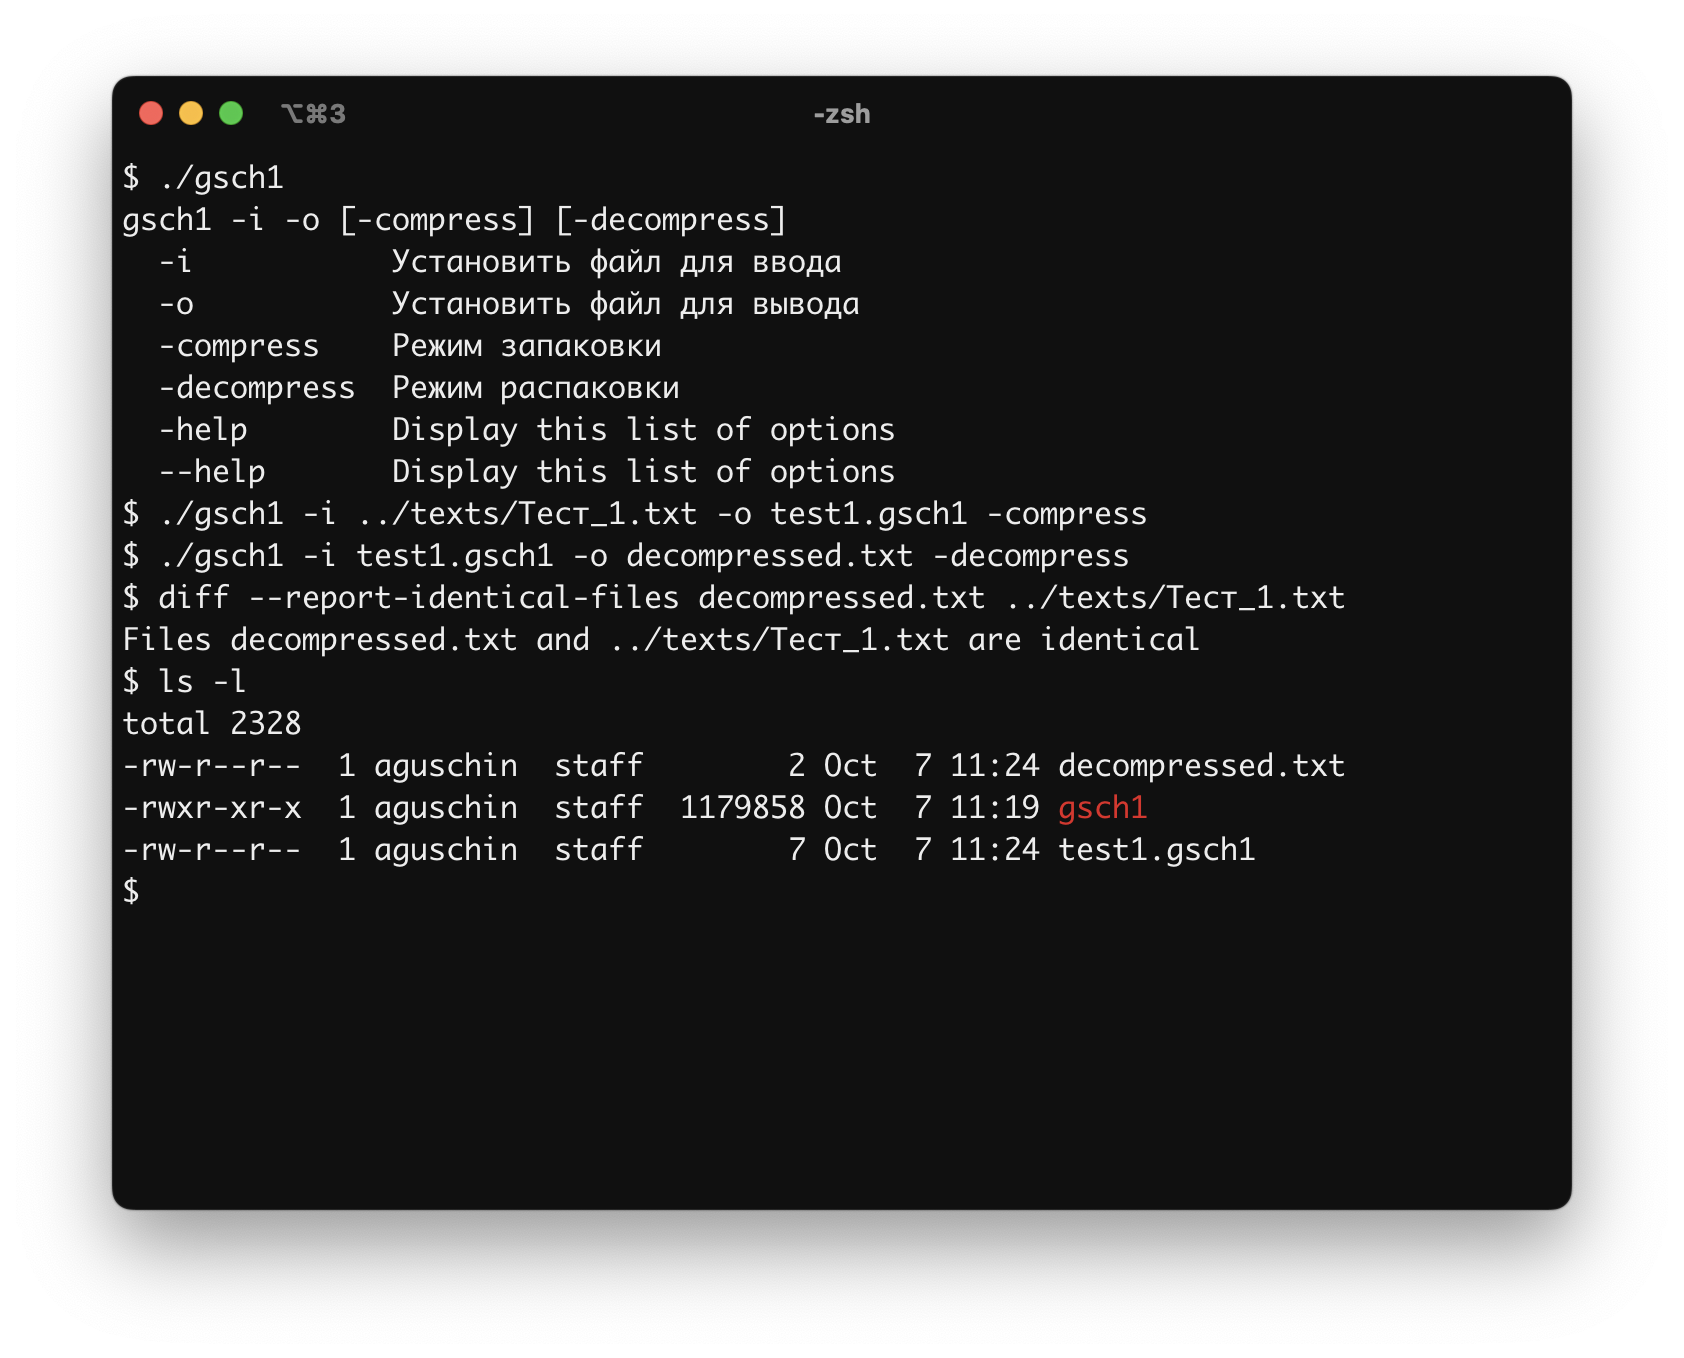
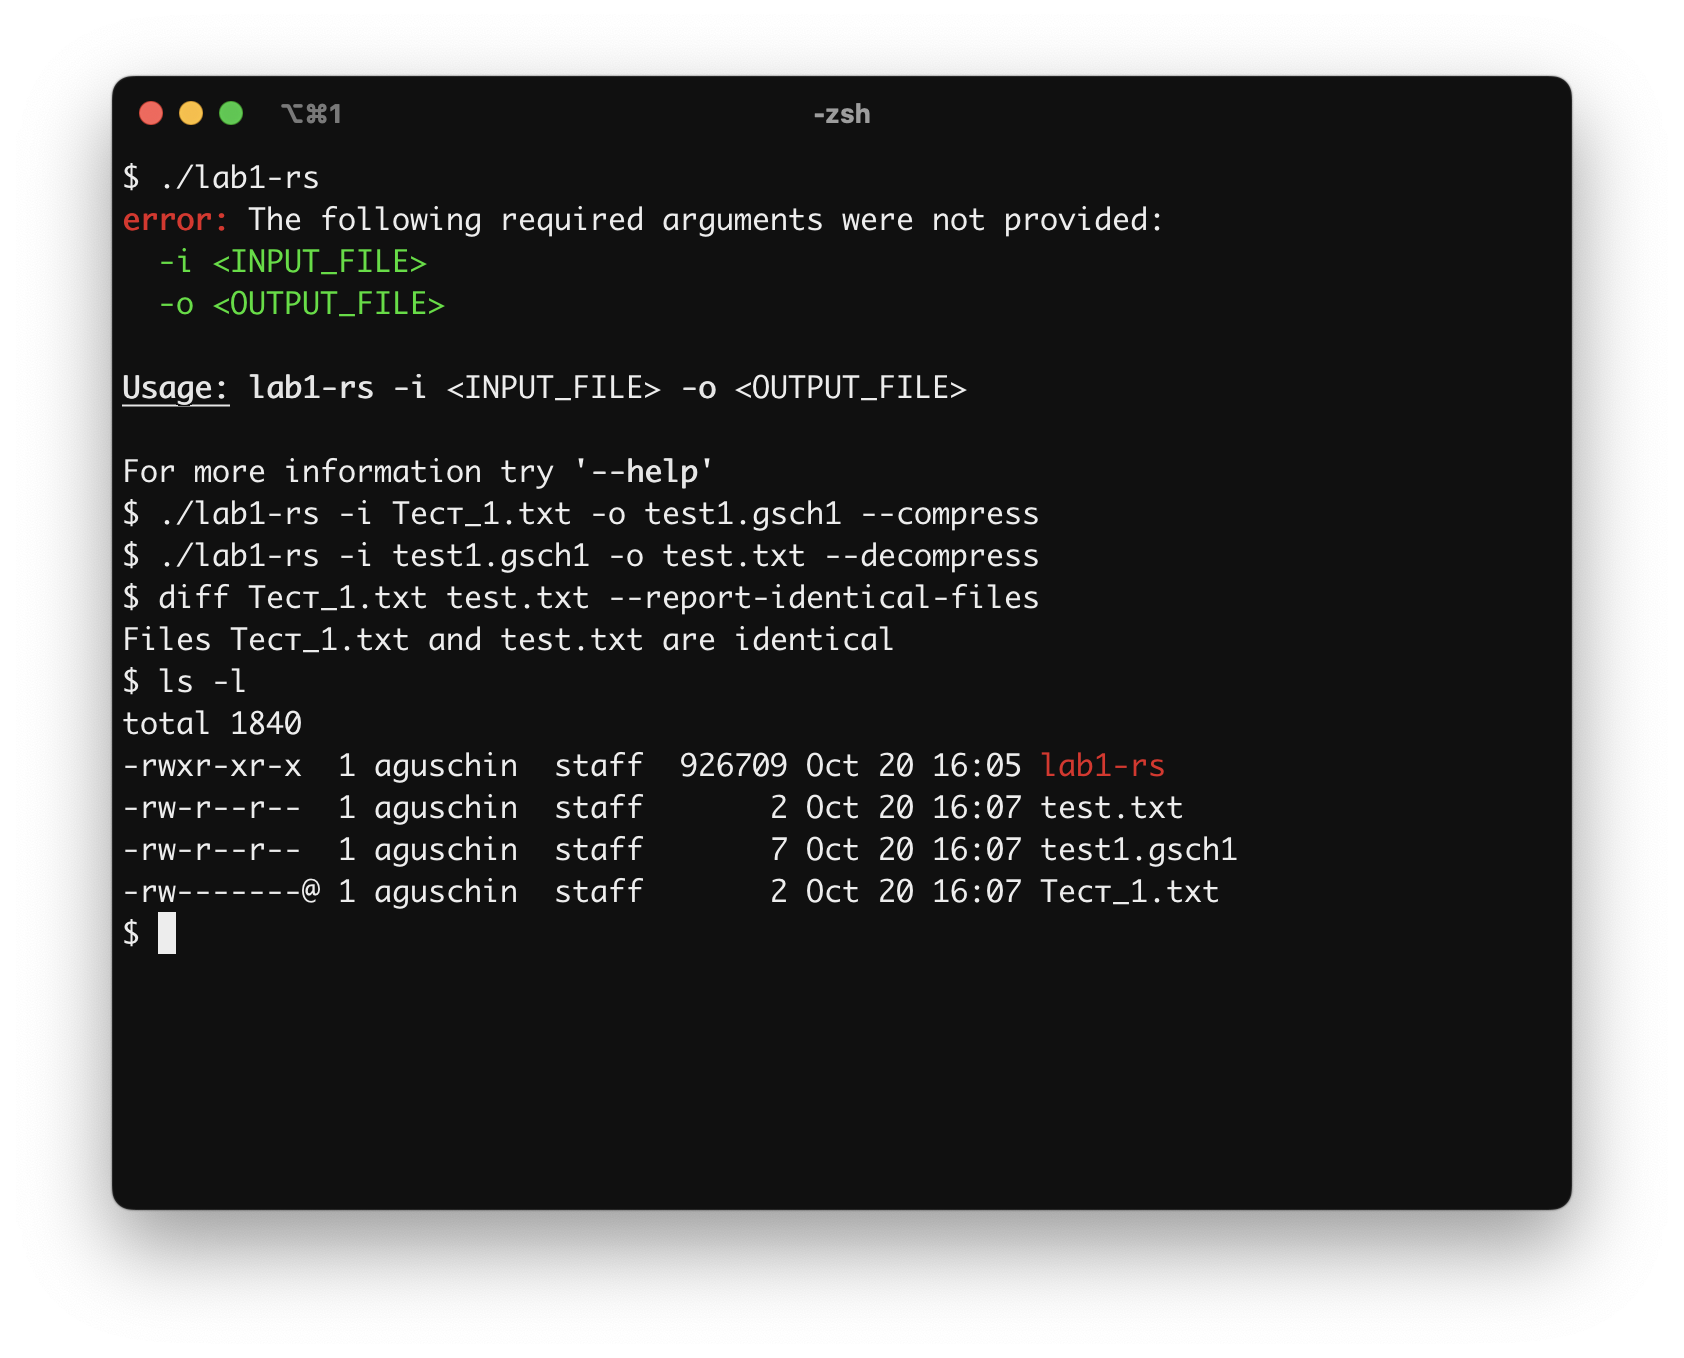
RustFmt в первой лабе и изменены данные в отчёте

diff --git a/reports/lab1/lab1.tex b/reports/lab1/lab1.tex
@@ -48,10 +48,10 @@
 
 Алгоритм состоит из следующих шагов:
 \begin{enumerate}
-    \item Вычислить частоты всех встретившихся символов;
-    \item Построить очередь с приоритетом на основе полученных частот;
-    \item Построить дерево с помощью очереди с приоритетом;
-    \item На основе дерева вычислить код для каждого символа.
+  \item Вычислить частоты всех встретившихся символов;
+  \item Построить очередь с приоритетом на основе полученных частот;
+  \item Построить дерево с помощью очереди с приоритетом;
+  \item На основе дерева вычислить код для каждого символа.
 \end{enumerate}
 
 
@@ -64,17 +64,17 @@
 архив увеличивает их размер за счёт метаданных.
 
 \begin{figure}[H]
-    \centering
-    \includegraphics[width=0.9\textwidth]{test1.png}
-    \caption{Сжатие текста Тест\_1.txt}
-    \label{fig:test_1}
+  \centering
+  \includegraphics[width=0.9\textwidth]{test1.png}
+  \caption{Сжатие текста Тест\_1.txt}
+  \label{fig:test_1}
 \end{figure}
 
 \begin{figure}[H]
-    \centering
-    \includegraphics[width=0.9\textwidth]{test6.png}
-    \caption{Сжатие текста Тест\_6.txt}
-    \label{fig:test_6}
+  \centering
+  \includegraphics[width=0.9\textwidth]{test6.png}
+  \caption{Сжатие текста Тест\_6.txt}
+  \label{fig:test_6}
 \end{figure}
 
 
@@ -87,58 +87,53 @@
 помощью алгоритма Хаффмана является неэффективной.
 
 \begin{table}[H]
-    \small
-    \centering
-    \begin{tabular}{|c|c|c|c|}
-        \hline
-        Название     & Исходный размер, байт & Сжатый размер, байт & Коэффициент \\ \hline \hline
-        Тест\_1.txt  & 2                     & 7                   & 0.28571     \\ \hline
-        Тест\_2.txt  & 33                    & 92                  & 0.3587      \\ \hline
-        Тест\_3.txt  & 2739                  & 1998                & 1.37087     \\ \hline
-        Тест\_4.txt  & 330                   & 48                  & 6.875       \\ \hline
-        Тест\_5.txt  & 59                    & 168                 & 0.35119     \\ \hline
-        Тест\_6.txt  & 7958                  & 7577                & 1.05028     \\ \hline
-        Тест\_7.txt  & 138245                & 134049              & 1.0313      \\ \hline
-        Тест\_8.txt  & 574426                & 482613              & 1.19024     \\ \hline
-        Тест\_9.txt  & 2752                  & 348                 & 7.90805     \\ \hline
-        Тест\_10.txt & 2814                  & 708                 & 3.97458     \\ \hline
-    \end{tabular}
-    \caption{результаты тестирования}
-    \label{tbl:results}
+  \small
+  \centering
+  \begin{tabular}{|c|c|c|c|}
+    \hline
+    Название   & Исходный размер, байт & Сжатый размер, байт & Коэффициент \\ \hline \hline
+    Тест\_1.txt  & 2           & 7           & 0.28571   \\ \hline
+    Тест\_2.txt  & 33          & 92          & 0.3587    \\ \hline
+    Тест\_3.txt  & 2739        & 1998        & 1.37087   \\ \hline
+    Тест\_4.txt  & 330         & 48          & 6.875     \\ \hline
+    Тест\_5.txt  & 59          & 168         & 0.35119   \\ \hline
+    Тест\_6.txt  & 7958        & 7843        & 1.01466   \\ \hline
+    Тест\_7.txt  & 138245      & 120488      & 1.14738   \\ \hline
+    Тест\_8.txt  & 574426      & 516945      & 1.11119   \\ \hline
+    Тест\_9.txt  & 2752        & 349         & 7.88539   \\ \hline
+    Тест\_10.txt & 2814        & 368         & 7.64674   \\ \hline
+  \end{tabular}
+  \caption{результаты тестирования}
+  \label{tbl:results}
 \end{table}
 
 \subsection{Характеристика 2 (Скорость сжатия)}
 
-Для тестирования скорости сжатия использовался произвольный двоичный файл
-размера 76450438 байт ($\approx$73 мегабайта). В результате пяти последовательных
-запусков, среднее время запаковки файла составило 44.08 секунды, среднее
-время распаковки составило 33.42 секунды.
+Для тестирования скорости сжатия использовался произвольный двоичный
+файл размера 76450438 байт ($\approx$73 мегабайта). В результате пяти
+последовательных запусков, среднее время запаковки файла составило 4.2
+секунды, среднее время распаковки составило 4.7 секунды.
 
-Таким образом, средняя скорость сжатия составила 1.65401 Мбайт в секунду, а
-средняя скорость разжатия составила 2.18159 Мбайт в секунду.
+Таким образом, средняя скорость сжатия составила 17.35924 Мбайт в секунду, а
+средняя скорость разжатия составила 15.51251 Мбайт в секунду.
 
 
 \section{Реализация}
 
-Программа реализована на языке программирования OCaml с использованием
-исключительно стандартной библиотеки языка. Сборка производится с помощью
-программы GNU Make и компиляторов ocamlc и ocamlopt, поставляющихся вместе с
-языком.
+Программа реализована на языке программирования Rust с использованием библиотеки
+clap для чтения параметров командной строки. Сборка производится с помощью
+программы cargo, поставляющейся вместе с языком.
 
-\subsection{Содержимое файла priority\_queue.ml}
-\inputminted{ocaml}{../../lab1/priority_queue.ml}
+\subsection{Содержимое файла priority\_queue.rs}
+\inputminted{rust}{../../lab1-rs/src/priority_queue.rs}
 
-\subsection{Содержимое файла huffman.mli}
-\inputminted{ocaml}{../../lab1/huffman.mli}
+\subsection{Содержимое файла huffman.rs}
+\inputminted{rust}{../../lab1-rs/src/huffman.rs}
 
-\subsection{Содержимое файла huffman.ml}
-\inputminted{ocaml}{../../lab1/huffman.ml}
+\subsection{Содержимое файла main.rs}
+\inputminted{rust}{../../lab1-rs/src/main.rs}
 
-\subsection{Содержимое файла compress.ml}
-\inputminted{ocaml}{../../lab1/compress.ml}
-
-\subsection{Содержимое файла Makefile}
-\inputminted{ocaml}{../../lab1/Makefile}
-
+\subsection{Содержимое файла Cargo.toml}
+\inputminted{toml}{../../lab1-rs/Cargo.toml}
 
 \end{document}

diff --git a/lab1-rs/src/huffman.rs b/lab1-rs/src/huffman.rs
@@ -1,12 +1,18 @@
-use std::collections::HashMap;
 use crate::priority_queue::PriorityQueue;
+use std::collections::HashMap;
 
 #[derive(Clone, Copy, Debug)]
-enum Bit { Zero, One, }
+enum Bit {
+    Zero,
+    One,
+}
 impl Bit {
     fn from_u8(x: u8) -> Bit {
-        if x == 0 { Bit::Zero }
-        else { Bit::One }
+        if x == 0 {
+            Bit::Zero
+        } else {
+            Bit::One
+        }
     }
 
     fn to_u8(x: &Bit) -> u8 {
@@ -18,7 +24,10 @@ impl Bit {
 }
 
 #[derive(Debug)]
-enum HuffmanTree<T> where T: std::cmp::Eq + std::hash::Hash + Copy {
+enum HuffmanTree<T>
+where
+    T: std::cmp::Eq + std::hash::Hash + Copy,
+{
     Leaf(T),
     Node(Box<HuffmanTree<T>>, Box<HuffmanTree<T>>),
 }
@@ -35,7 +44,8 @@ impl<T: std::cmp::Eq + std::hash::Hash + Copy> HuffmanTree<T> {
             let v2 = huf_queue.pop().unwrap();
             huf_queue.insert(
                 v1.weight + v2.weight,
-                Box::new(HuffmanTree::Node(v1.value, v2.value)));
+                Box::new(HuffmanTree::Node(v1.value, v2.value)),
+            );
         }
         return *huf_queue.pop().unwrap().value;
     }
@@ -44,7 +54,7 @@ impl<T: std::cmp::Eq + std::hash::Hash + Copy> HuffmanTree<T> {
         match tree {
             HuffmanTree::Leaf(val) => {
                 code.insert(*val, acc.clone());
-            },
+            }
             HuffmanTree::Node(left, right) => {
                 acc.push(Bit::Zero);
                 acc = HuffmanTree::dfs(left, acc, code);
@@ -52,7 +62,7 @@ impl<T: std::cmp::Eq + std::hash::Hash + Copy> HuffmanTree<T> {
                 acc.push(Bit::One);
                 acc = HuffmanTree::dfs(right, acc, code);
                 acc.pop();
-            },
+            }
         };
         return acc;
     }
@@ -162,10 +172,11 @@ impl BitWriter {
 
     fn dump_byte(&mut self) {
         let mut byte = 0_u8;
-        self.buffer.iter()
-                   .map(Bit::to_u8)
-                   .enumerate()
-                   .for_each(|(i, bit)| byte |= bit << i);
+        self.buffer
+            .iter()
+            .map(Bit::to_u8)
+            .enumerate()
+            .for_each(|(i, bit)| byte |= bit << i);
         self.result.push(byte);
         self.buffer.clear();
     }
@@ -195,11 +206,10 @@ pub fn compress(data: &Vec<u8>) -> Vec<u8> {
     let mut metadata = Metadata::compute(data);
 
     let mut writer = BitWriter::new();
-    data.iter()
-        .for_each(|byte| {
-            let bits = metadata.code.get(byte).unwrap();
-            writer.write_bits(&bits);
-         });
+    data.iter().for_each(|byte| {
+        let bits = metadata.code.get(byte).unwrap();
+        writer.write_bits(&bits);
+    });
     writer.finish();
     metadata.remainder = writer.remainder;
 

diff --git a/lab1-rs/src/priority_queue.rs b/lab1-rs/src/priority_queue.rs
@@ -1,19 +1,19 @@
-use std::collections::{BinaryHeap};
 use std::cmp::Ordering;
+use std::collections::BinaryHeap;
 
 #[derive(Debug)]
 pub struct Weighted<T> {
     pub weight: u32,
-    pub value: T
+    pub value: T,
 }
 
-impl <T> PartialEq for Weighted<T> {
+impl<T> PartialEq for Weighted<T> {
     fn eq(&self, other: &Self) -> bool {
         self.weight == other.weight
     }
 }
 
-impl <T> Eq for Weighted<T> { }
+impl<T> Eq for Weighted<T> {}
 
 impl<T> PartialOrd for Weighted<T> {
     fn partial_cmp(&self, other: &Self) -> Option<Ordering> {
@@ -35,12 +35,15 @@ pub struct PriorityQueue<T> {
 impl<T> PriorityQueue<T> {
     pub fn new() -> Self {
         PriorityQueue {
-            heap: BinaryHeap::new()
+            heap: BinaryHeap::new(),
         }
     }
 
     pub fn insert(&mut self, priority: u32, value: T) {
-        self.heap.push(Weighted { weight: priority, value });
+        self.heap.push(Weighted {
+            weight: priority,
+            value,
+        });
     }
 
     pub fn len(&self) -> usize {

diff --git a/lab1-rs/src/main.rs b/lab1-rs/src/main.rs
@@ -1,9 +1,9 @@
 mod huffman;
 mod priority_queue;
 use clap::Parser;
-use std::path::PathBuf;
 use std::fs::File;
 use std::io::{Error, ErrorKind, Read, Write};
+use std::path::PathBuf;
 
 #[derive(Parser)]
 struct Cli {
@@ -55,14 +55,11 @@ fn main() -> std::io::Result<()> {
 
     if let Err(error) = result {
         match error.kind() {
-            ErrorKind::NotFound =>
-                println!("Указанный файл не найден"),
-            ErrorKind::AlreadyExists =>
-                println!("Указанный файл уже существует"),
+            ErrorKind::NotFound => println!("Указанный файл не найден"),
+            ErrorKind::AlreadyExists => println!("Указанный файл уже существует"),
             _ => println!("Произошла непредвиденная ошибка"),
         };
     }
 
-
-    return Ok(());
+    Ok(())
 }
